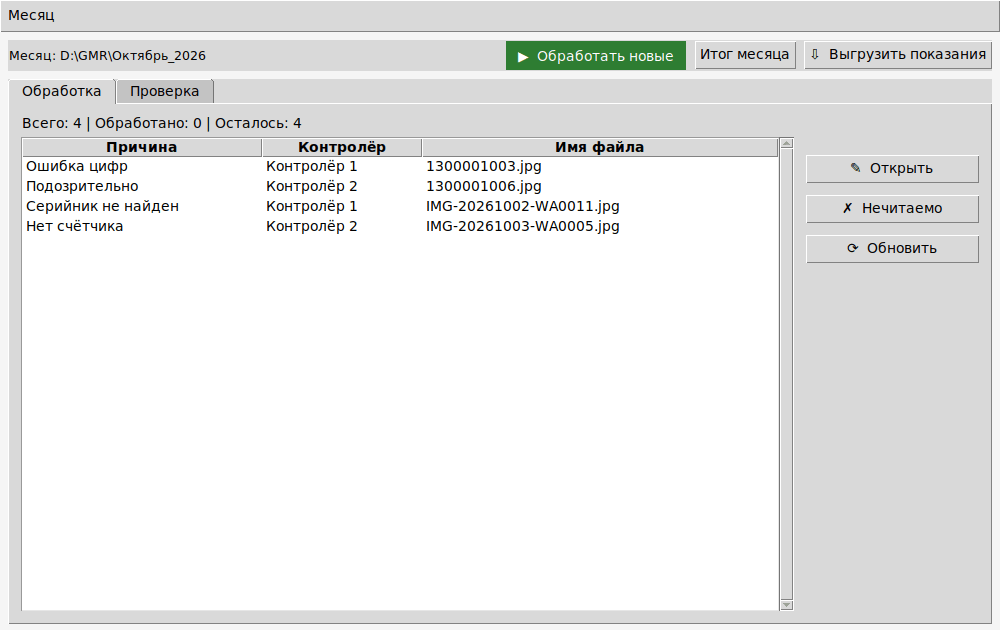
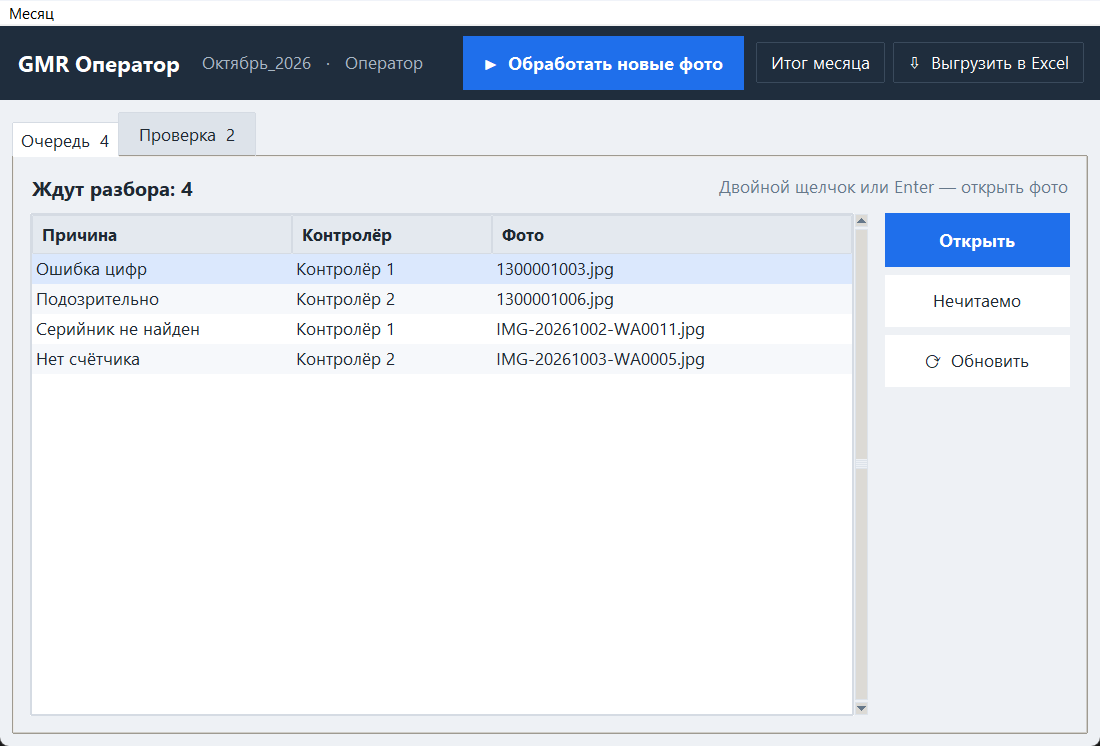
Окно на маленьком экране, новые снимки инструкции оператора
Окно открывается на весь экран, наименьший размер 1100×680; кнопка
«Пропустить» (то же, что «К списку») убрана — уезжала за край; строки
под расходом короче; окно прогона и итог — посередине окна программы.
Снимки docs/OPERATOR.md — нового вида, на выдуманных данных.

diff --git a/src/gmr/operator/edit_screen.py b/src/gmr/operator/edit_screen.py
@@ -92,7 +92,7 @@ class EditScreen(ttk.Frame):
 
         top = ttk.Frame(self)
         top.pack(fill=tk.X, padx=16, pady=(12, 8))
-        ttk.Button(top, text="←  К списку", command=self._back).pack(side=tk.LEFT)
+        ttk.Button(top, text="←  К списку   Esc", command=self._back).pack(side=tk.LEFT)
         tk.Label(top, text=REASON_LABELS.get(self.reason, self.reason), bg="#fdf0e1", fg=WARNING,
                  font=(FONT, 10, "bold"), padx=10, pady=3).pack(side=tk.LEFT, padx=(16, 10))
         ttk.Label(top, text=self._position_text(), style="Muted.TLabel").pack(side=tk.LEFT)
@@ -142,12 +142,12 @@ class EditScreen(ttk.Frame):
         lbl = tk.Label(parent, textvariable=var, bg=SURFACE, font=(FONT, 9), anchor="w",
                        justify="left", wraplength=320)
         var.trace_add("write", lambda *a: lbl.config(fg=SUCCESS if var.get().startswith("✓") else WARNING))
-        lbl.pack(anchor="w", fill=tk.X, pady=(2, 10))
+        lbl.pack(anchor="w", fill=tk.X, pady=(2, 6))
         return lbl
 
     def _build_fields(self, parent):
         self._status_var = tk.StringVar(value="")
-        ttk.Label(parent, textvariable=self._status_var, style="CardMuted.TLabel").pack(anchor="w", pady=(0, 12))
+        ttk.Label(parent, textvariable=self._status_var, style="CardMuted.TLabel").pack(anchor="w", pady=(0, 6))
 
         self._title(parent, "НОМЕР СЧЁТЧИКА")
         self._serial_var = tk.StringVar()
@@ -173,7 +173,7 @@ class EditScreen(ttk.Frame):
 
         self._title(parent, "ПОКАЗАНИЕ")
         self._reading_widget = ReadingWidget(parent, on_change=self._on_reading_change, style="Card.TFrame")
-        self._reading_widget.pack(anchor="w", pady=(2, 12))
+        self._reading_widget.pack(anchor="w", pady=(2, 8))
 
         row = ttk.Frame(parent, style="Card.TFrame")
         row.pack(fill=tk.X)
@@ -185,7 +185,7 @@ class EditScreen(ttk.Frame):
         self._delta_var = tk.StringVar(value="")
         self._delta_lbl = tk.Label(parent, textvariable=self._delta_var,
                                    font=(FONT, 15, "bold"), bg=SURFACE, anchor="w")
-        self._delta_lbl.pack(anchor="w", pady=(10, 0))
+        self._delta_lbl.pack(anchor="w", pady=(6, 0))
         self._outcome_var = tk.StringVar(value="")
         self._outcome_lbl = tk.Label(parent, textvariable=self._outcome_var, font=(FONT, 10),
                                      bg=SURFACE, fg=MUTED, anchor="w", justify="left", wraplength=320)
@@ -201,17 +201,16 @@ class EditScreen(ttk.Frame):
         bottom = ttk.Frame(self)
         bottom.pack(fill=tk.X, padx=16, pady=(8, 14))
 
-        self._accept_btn = action_button(bottom, "✓   Принять     Enter", self._accept, kind="primary",
+        self._accept_btn = action_button(bottom, "✓  Принять   Enter", self._accept, kind="primary",
                                          state=tk.DISABLED)
         self._accept_btn.pack(side=tk.LEFT, padx=(0, 12))
         for text, command, kind in (
-            ("Дубль     D", self._duplicate, "secondary"),
-            ("Нечитаемо     Del", self._unreadable, "danger"),
-            ("Нет в базе     N", self._not_in_db, "secondary"),
-            ("Номер в таблице с ошибкой     B", self._db_serial_fix, "secondary"),
+            ("Дубль   D", self._duplicate, "secondary"),
+            ("Нечитаемо   Del", self._unreadable, "danger"),
+            ("Нет в базе   N", self._not_in_db, "secondary"),
+            ("Номер в таблице с ошибкой   B", self._db_serial_fix, "secondary"),
         ):
             action_button(bottom, text, command, kind=kind).pack(side=tk.LEFT, padx=4)
-        action_button(bottom, "Пропустить     Esc", self._back).pack(side=tk.RIGHT)
 
     def _key_bindings(self) -> list:
         """Горячие клавиши; буквы — в обеих раскладках (D — и «в»)."""
@@ -628,9 +627,9 @@ class EditScreen(ttk.Frame):
         self._delta_value = delta
         self._delta_var.set(f"Расход {delta:+.0f}")
         if abs(delta) > self.app.config.delta_threshold:
-            color, text, code = WARNING, "⚠ Очень большая разница — проверьте показание", "SUSPICIOUS"
+            color, text, code = WARNING, "⚠ Очень большая разница — проверьте", "SUSPICIOUS"
         elif delta >= 0:
-            color, text, code = SUCCESS, "▲ больше прошлого — обычный расход", "PLUS"
+            color, text, code = SUCCESS, "▲ больше прошлого", "PLUS"
         else:
             color, text, code = CLR_RED, "▼ меньше прошлого", "MINUS"
         self._delta_lbl.config(fg=color)

diff --git a/src/gmr/ui/run_dialog.py b/src/gmr/ui/run_dialog.py
@@ -37,6 +37,15 @@ def process_command(project: Path, month_dir: str, reread: bool = False) -> list
     return cmd + (["--reread"] if reread else [])
 
 
+def center_on(win: tk.Toplevel, parent) -> None:
+    """Окно — посередине над родительским (иначе Windows ставит его в угол экрана)."""
+    win.update_idletasks()
+    w, h = win.winfo_reqwidth(), win.winfo_reqheight()
+    x = parent.winfo_rootx() + max(0, (parent.winfo_width() - w) // 2)
+    y = parent.winfo_rooty() + max(0, (parent.winfo_height() - h) // 3)
+    win.geometry(f"+{x}+{y}")
+
+
 def parse_progress(line: str) -> Optional[tuple]:
     """Строка вывода прогона → ("total", N) | ("photo", k, N, имя) |
     ("models",) | ("stopped",) | None."""
@@ -78,6 +87,7 @@ class ProcessDialog(tk.Toplevel):
         self.stop_btn = ttk.Button(f, text="⏹  Остановить", command=self.stop)
         self.stop_btn.pack(pady=(12, 0))
         self.protocol("WM_DELETE_WINDOW", self.stop)
+        center_on(self, parent)
         self.grab_set()
 
         env = dict(os.environ, PYTHONIOENCODING="utf-8", PYTHONUNBUFFERED="1")
@@ -153,3 +163,4 @@ def show_text(parent, title: str, text: str) -> None:
     ttk.Button(win, text="Закрыть", command=win.destroy).pack(side=tk.BOTTOM, pady=8)
     sb.pack(side=tk.RIGHT, fill=tk.Y)
     box.pack(fill=tk.BOTH, expand=True, padx=(8, 0), pady=(8, 0))
+    center_on(win, parent)

diff --git a/src/gmr/operator/window.py b/src/gmr/operator/window.py
@@ -52,7 +52,11 @@ class MainWindow(tk.Tk):
         super().__init__()
         self.title(APP_NAME)
         self.geometry("1280x800")
-        self.minsize(960, 600)
+        self.minsize(1100, 680)          # меньше — кнопки шапки и разбора фото не помещаются
+        try:
+            self.state("zoomed")         # на весь экран: на ноутбуке 1366×768 окно 1280×800 не влезает
+        except tk.TclError:              # не Windows
+            pass
         apply_theme(self)
 
         self.settings  = load_settings()

diff --git a/docs/OPERATOR.md b/docs/OPERATOR.md
@@ -49,20 +49,23 @@
      папкам.
    - Старые фото не удаляйте и не переносите: программа сама помнит, что
      уже разобрано, и второй раз их не читает.
-2. **Нажмите «▶ Обработать новые».** Появится полоса «Обработано N из M
+2. **Нажмите «▶ Обработать новые фото».** Появится полоса «Обработано N из M
    новых фото». Пока она идёт, разбирать фото нельзя. «Остановить» —
    программа дочитает текущее фото и закончит; остальные прочитает
    следующий запуск. В конце окно покажет итог обработки.
 
    ![Обработка новых фото](img/operator_progress.png)
 
-3. **Разберите очередь** на вкладке «Обработка». Это фото, которые
-   программа не смогла прочитать сама. В столбце «Контролёр» видно, чьё фото.
-   Двойной щелчок по строке открывает фото:
+3. **Разберите очередь** на вкладке «Очередь» (рядом — сколько фото ждут).
+   Это фото, которые программа не смогла прочитать сама. В столбце
+   «Контролёр» видно, чьё фото. Двойной щелчок по строке или Enter открывает
+   фото:
 
    ![Разбор фото](img/operator_edit.png)
 
-   Проверьте серийный номер, лицевой счёт и 5 цифр показания и нажмите:
+   Проверьте номер счётчика, лицевой счёт и 5 цифр показания. Под номером
+   зелёным «✓ есть в таблице» — номер нашёлся; справа видно прошлое
+   показание и расход. Нажмите:
    - **«Принять» [Enter]** — показание верное. Если у счёта уже есть
      показание, окно покажет его и спросит «Заменить?».
    - **«Дубль» [D]** — повтор счётчика, который уже прочитан.
@@ -71,7 +74,7 @@
      потом добавит его в таблицу, программа прочитает фото сама. Если окно
      нашло абонента в таблице, оно попросит вписать номер с фото (номер из
      таблицы не подойдёт: такое фото — «Принять»).
-   - **«Серийник в базе с ошибкой» [B]** — на фото номер верный, а в таблице
+   - **«Номер в таблице с ошибкой» [B]** — на фото номер верный, а в таблице
      компании опечатка. Номер исправится в базе месяца, показание
      запишется, номер попадёт в список для компании `db_serial_fix.csv`.
 
@@ -80,8 +83,9 @@
    в начале счёта: 1300, 0429…). Проверьте номер на фото: чаще всего это
    ошибка в одной цифре.
 
-   После каждого действия сразу открывается следующее фото. «← Назад» —
-   вернуться к списку.
+   Буквы D, N, B, E работают и в русской раскладке. После каждого действия
+   сразу открывается следующее фото. «← К списку» [Esc] — вернуться к
+   списку.
 4. Время от времени — вкладка **«Проверка»**: фото, которые программа
    прочитала сама. «Верно» [Enter] или «Исправить» [E].
 
@@ -99,7 +103,7 @@
    ![Итог месяца](img/operator_summary.png)
 
 2. Отдайте компании файл **`показания.xlsx`** из папки месяца. Он
-   обновляется после каждой обработки, по кнопке «⇩ Выгрузить показания» и
+   обновляется после каждой обработки, по кнопке «⇩ Выгрузить в Excel» и
    при закрытии окна. Список абонентов без показания — `без_показаний.csv`
    там же.
 3. Следующий месяц — снова «Месяц» → «Новый месяц…» и новая папка.
@@ -108,8 +112,8 @@
 
 | Что видно | Что делать |
 |---|---|
-| «Файл открыт в Excel: показания.xlsx» | Закройте файл в Excel и нажмите «Повторить» (или «Выгрузить показания» ещё раз). Показания при этом не теряются — они в базе месяца |
-| «Обработка не удалась» и текст про фото без папки контролёра | В `фото\` лежат фото без папки. Разложите их по папкам контролёров и снова «Обработать новые» |
+| «Файл открыт в Excel: показания.xlsx» | Закройте файл в Excel и нажмите «Повторить» (или «Выгрузить в Excel» ещё раз). Показания при этом не теряются — они в базе месяца |
+| «Обработка не удалась» и текст про фото без папки контролёра | В `фото\` лежат фото без папки. Разложите их по папкам контролёров и снова «Обработать новые фото» |
 | В итоге обработки «⚠ Не взяты …» | Эти файлы программа не читает (не `.jpg`/`.png` или папка внутри папки контролёра). Если это фото — сохраните его как `.jpg` |
 | «Ошибка программы» | Сообщите владельцу программы. Подробности — в файле `program2.log` в папке программы (если окно открыто ярлыком) |
 | После замены модели нужно перечитать старые фото с ошибками | Меню «Месяц» → «Прочитать заново фото с ошибками…» |

diff --git a/docs/CHANGELOG.md b/docs/CHANGELOG.md
@@ -5,6 +5,18 @@
 показания) помечаются **«поведение»** и делаются только решением владельца
 (`docs/WORKFLOW.md`).
 
+## 2026-11-21 — окно на маленьком экране, снимки инструкции (**поведение**: вид)
+- Окно открывается на весь экран (на ноутбуке 1366×768 окно 1280×800 не
+  помещалось); наименьший размер — 1100×680: меньше не помещаются кнопки.
+- Разбор фото: кнопка «Пропустить» убрана — она делала то же, что «← К
+  списку» (теперь с подсказкой Esc) и на узком окне уезжала за край. Строка
+  под расходом — «▲ больше прошлого», «⚠ Очень большая разница — проверьте»
+  (короче, в одну строку); отступы в карточке меньше.
+- Окно прогона и «Итог месяца» открываются посередине окна программы (было
+  — в углу экрана).
+- Снимки в `docs/OPERATOR.md` — нового вида, на выдуманных данных
+  (нарисованные счётчики); текст инструкции — новыми словами окна.
+
 ## 2026-11-21 — подключено всё: надпись маркером и надписи поверх фото (**поведение**)
 Решение владельца 2026-11-21: «подключим всё, что есть, и прогоним тестовый
 месяц».
